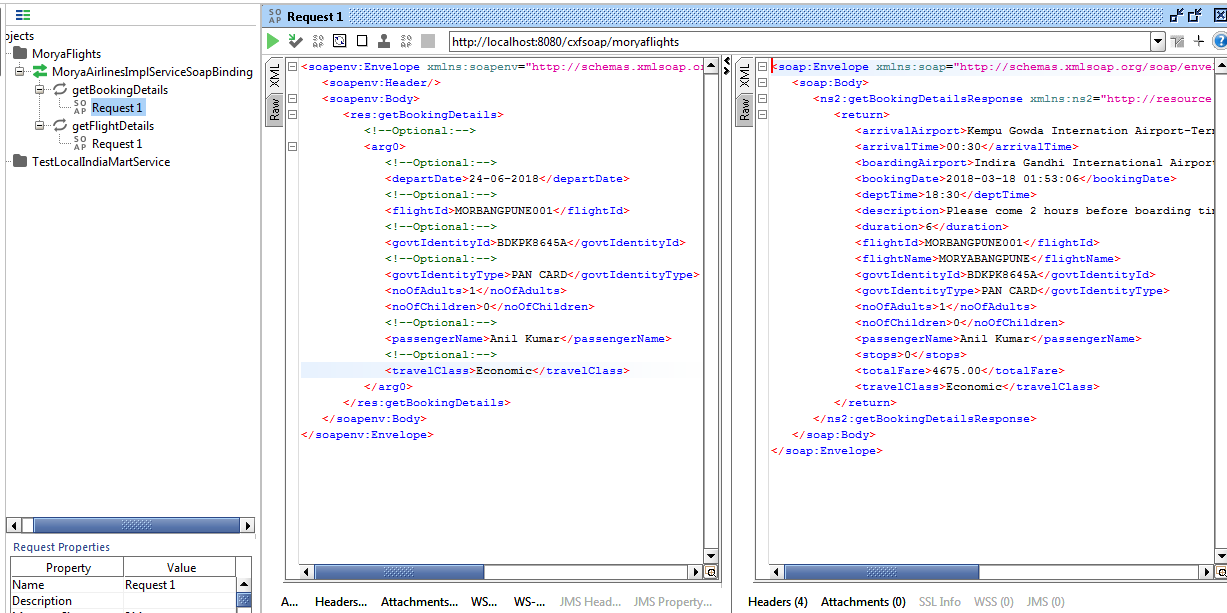
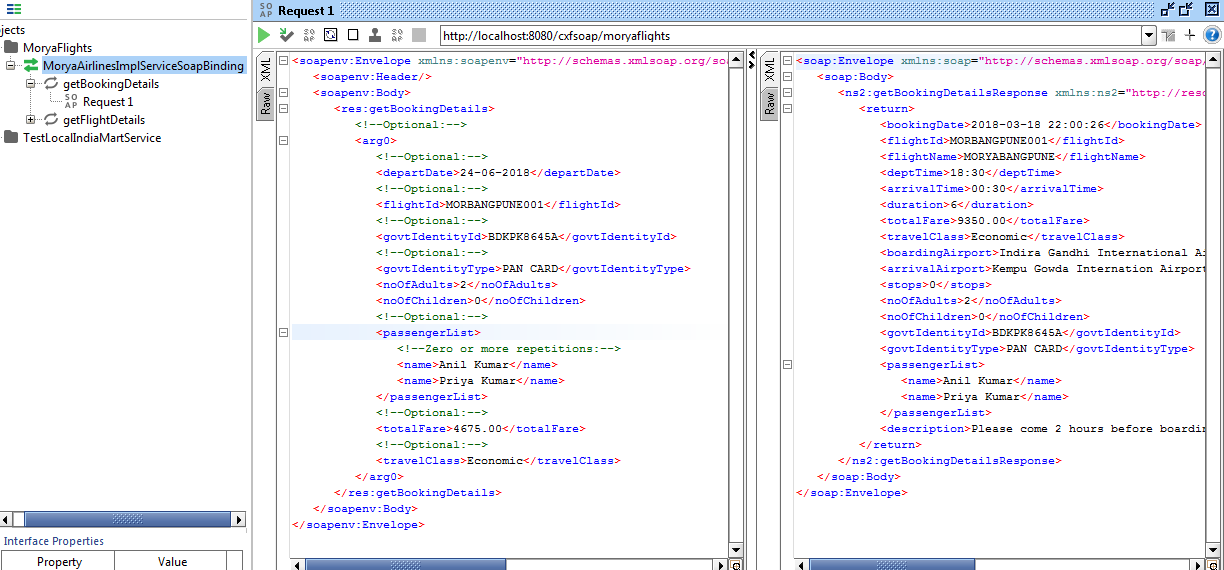
update projects

Changed region(s): [[0.0, 0.0, 1.0, 1.0]]

diff --git a/cxfsoapexample/src/main/java/com/cxfsoap/example/dao/impl/MoryaAirlinesDaoImpl.java b/cxfsoapexample/src/main/java/com/cxfsoap/example/dao/impl/MoryaAirlinesDaoImpl.java
@@ -1,5 +1,6 @@
 package com.cxfsoap.example.dao.impl;
 
+import java.math.BigDecimal;
 import java.util.List;
 
 import org.springframework.beans.factory.annotation.Autowired;
@@ -14,6 +15,7 @@ import com.cxfsoap.example.mappers.SourcesDestinationMapper;
 import com.cxfsoap.example.model.BookingDetailsRequest;
 import com.cxfsoap.example.model.BookingDetailsResponse;
 import com.cxfsoap.example.model.FlightDetailsRequest;
+import com.cxfsoap.example.model.PassengerList;
 import com.cxfsoap.example.model.FlightDetails;
 
 @Repository
@@ -32,21 +34,27 @@ public class MoryaAirlinesDaoImpl  implements MoryaAirlinesDao{
 	@Transactional(rollbackFor=Exception.class)
 	public void updateBookingDetail(BookingDetailsRequest request) {
 		String insertBookingDetails="insert into moryaflights.bookingdetails(bookingdate,flightid,traveldate,boardingairport,arrivalairport," + 
-				"passengername,govtid,govtidtype,travelclass,adults,children,description)" + 
-				"values(sysdate(),?,?,?,?,?,?,?,?,?,?,?)";
-		
+				"passengername,govtid,govtidtype,travelclass,adults,children,description,totalFare)" + 
+				"values(sysdate(),?,?,?,?,?,?,?,?,?,?,?,?)";
+		PassengerList passengers=request.getPassengerList();
+		StringBuilder  passengerNames=new StringBuilder();
+		for(String name:passengers.getName()) {
+			passengerNames.append(name+",");
+		}
+		BigDecimal totalFare= BigDecimal.valueOf(request.getTotalFare().doubleValue() * (request.getNoOfAdults()+request.getNoOfChildren()));
 		Object[] params=new Object[] {
 				request.getFlightId(),
 				request.getDepartDate(),
 				"Indira Gandhi International Airport-Terminal-I",
 				"Kempu Gowda Internation Airport-Terminal-II ",
-				request.getPassengerName(),
+				passengerNames.toString(),
 				request.getGovtIdentityId(),
 				request.getGovtIdentityType(),
 				request.getTravelClass(),
 				request.getNoOfAdults(),
 				request.getNoOfChildren(),
-				"Please come 2 hours before boarding time for security check and boarding procedures,Thank You!"
+				"Please come 2 hours before boarding time for security check and boarding procedures,Thank You!",
+				totalFare
 		};
 		jdbcTemplate.update(insertBookingDetails, params);
 		
@@ -63,12 +71,13 @@ public class MoryaAirlinesDaoImpl  implements MoryaAirlinesDao{
 	
 	public BookingDetailsResponse getBookingDetails(BookingDetailsRequest request) {
 		String fetchBookingDetailSql="select flight.flightid,flight.flightname,flight.depttime,flight.arrivaltime," + 
-				"flight.nostop,flight.stopageairport,flight.totalfare,booking.bookingdate,booking.adults,booking.children,booking.govtid,booking.govtidtype,booking.boardingairport,booking.arrivalairport," + 
+				"flight.nostop,flight.stopageairport,booking.totalFare,booking.bookingdate,booking.adults,booking.children,booking.govtid,booking.govtidtype,booking.boardingairport,booking.arrivalairport," + 
 				"booking.passengername,booking.travelclass,booking.traveldate,booking.description from moryaflights.flightsdetails flight inner join moryaflights.bookingdetails booking " + 
-				"on flight.flightid=booking.flightid where booking.govtid=? and booking.flightid=?";
+				"on flight.flightid=booking.flightid where booking.govtid=? and booking.flightid=? and booking.traveldate=?";
 		Object[] params=new Object[] {
 			request.getGovtIdentityId(),
-			request.getFlightId()
+			request.getFlightId(),
+			request.getDepartDate()
 		};
 		
 		return jdbcTemplate.queryForObject(fetchBookingDetailSql, params, new BookingDetailsRowMapper());
@@ -82,5 +91,25 @@ public class MoryaAirlinesDaoImpl  implements MoryaAirlinesDao{
 	public List<String> fetchAllDestination() {
 		String fetchAllDestinationSql="select distinct(destination) as sourdest from moryaflights.flightsdetails";
 		return jdbcTemplate.query(fetchAllDestinationSql, new SourcesDestinationMapper());
+	}
+	@Override
+	public int validateFlightId(BookingDetailsRequest request) {
+		String validateFlightidSql="select count(*) as count from moryaflights.flightsdetails where flightid=? and totalseats > ?";
+		int totalRequestSeats=(request.getNoOfAdults()+request.getNoOfChildren());
+		Object[] params=new Object[] {
+				request.getFlightId(),
+				totalRequestSeats
+		};
+		return jdbcTemplate.queryForObject(validateFlightidSql,params, Integer.class);
+	}
+	@Override
+	public int checkBookingExists(BookingDetailsRequest request) {
+		String checkBookingExistsSql="select count(*) as count from moryaflights.bookingdetails where flightid=? and traveldate=? and govtid=?";
+		Object[] params=new Object[] {
+				request.getFlightId(),
+				request.getDepartDate(),
+				request.getGovtIdentityId()
+		};
+		return jdbcTemplate.queryForObject(checkBookingExistsSql,params, Integer.class);
 	}
 }

diff --git a/cxfsoapexample/src/main/java/com/cxfsoap/example/model/BookingDetailsResponse.java b/cxfsoapexample/src/main/java/com/cxfsoap/example/model/BookingDetailsResponse.java
@@ -4,8 +4,13 @@ import java.math.BigDecimal;
 import java.util.List;
 
 import javax.xml.bind.annotation.XmlRootElement;
+import javax.xml.bind.annotation.XmlType;
 
 @XmlRootElement
+@XmlType(propOrder= {"fault","bookingDate","flightId","flightName","deptTime",
+		"arrivalTime","duration","totalFare","travelClass","departDate","boardingAirport",
+		"arrivalAirport","stops","stopageAirports","noOfAdults","noOfChildren","govtIdentityId",
+		"govtIdentityType","passengerList","description"})
 public class BookingDetailsResponse {
 
 	private String bookingDate;
@@ -26,7 +31,7 @@ public class BookingDetailsResponse {
 	private String govtIdentityId;
 	private String govtIdentityType;
 	private String description;
-	private String passengerName;
+	private PassengerList passengerList;
 	private ErrorResponse fault;
 	
 	public String getFlightId() {
@@ -131,12 +136,7 @@ public class BookingDetailsResponse {
 	public void setFault(ErrorResponse fault) {
 		this.fault = fault;
 	}
-	public String getPassengerName() {
-		return passengerName;
-	}
-	public void setPassengerName(String passengerName) {
-		this.passengerName = passengerName;
-	}
+	
 	public String getBookingDate() {
 		return bookingDate;
 	}
@@ -149,5 +149,10 @@ public class BookingDetailsResponse {
 	public void setArrivalAirport(String arrivalAirport) {
 		this.arrivalAirport = arrivalAirport;
 	}
-	
+	public PassengerList getPassengerList() {
+		return passengerList;
+	}
+	public void setPassengerList(PassengerList passengerList) {
+		this.passengerList = passengerList;
+	}
 }

diff --git a/cxfsoapexample/src/main/java/com/cxfsoap/example/util/MoryaAirlinesValidator.java b/cxfsoapexample/src/main/java/com/cxfsoap/example/util/MoryaAirlinesValidator.java
@@ -7,6 +7,8 @@ import org.springframework.beans.factory.annotation.Autowired;
 import org.springframework.stereotype.Component;
 
 import com.cxfsoap.example.dao.MoryaAirlinesDao;
+import com.cxfsoap.example.model.BookingDetailsRequest;
+import com.cxfsoap.example.model.BookingDetailsResponse;
 import com.cxfsoap.example.model.DestinationList;
 import com.cxfsoap.example.model.ErrorResponse;
 import com.cxfsoap.example.model.ErrorSeverity;
@@ -58,5 +60,27 @@ public class MoryaAirlinesValidator {
 	      return false;
 	    }
 	    return true;              
+	}
+	public BookingDetailsResponse validateBookingDetails(BookingDetailsRequest request) {
+		BookingDetailsResponse validationResponse=new BookingDetailsResponse();
+		ErrorResponse faultDetails=null;
+		if(validateDate(request.getDepartDate())==Boolean.FALSE) {
+			faultDetails=new ErrorResponse();
+			faultDetails.setErrorCode("INVALID_DATE_FORMAT");
+			faultDetails.setDescription("Invalid date format,valid date format [dd-MM-YYYY]");
+			faultDetails.setErrSeverity(ErrorSeverity.NORMAL);
+			validationResponse.setFault(faultDetails);	
+			return validationResponse;
+		}
+		
+		if(daoService.validateFlightId(request)==0) {
+			faultDetails=new ErrorResponse();
+			faultDetails.setErrorCode("INVALID_FLIGHTID");
+			faultDetails.setDescription("Invalid flightid or seat not available");
+			faultDetails.setErrSeverity(ErrorSeverity.NORMAL);
+			validationResponse.setFault(faultDetails);
+			return validationResponse;
+		}
+		return null;
 	}
 }

diff --git a/cxfsoapexample/src/main/java/com/cxfsoap/example/resource/impl/MoryaAirlinesImpl.java b/cxfsoapexample/src/main/java/com/cxfsoap/example/resource/impl/MoryaAirlinesImpl.java
@@ -2,6 +2,7 @@ package com.cxfsoap.example.resource.impl;
 
 import javax.jws.WebService;
 
+import org.apache.log4j.Logger;
 import org.springframework.beans.factory.annotation.Autowired;
 
 import com.cxfsoap.example.model.BookingDetailsRequest;
@@ -16,12 +17,14 @@ import com.cxfsoap.example.util.MoryaAirlinesValidator;
 targetNamespace="http://cxfsoap.moryaairlines.com/")
 public class MoryaAirlinesImpl implements MoryaAirlines {
 
+	
 	@Autowired
 	private MoryaAirlinesService service;
 	@Autowired
 	private MoryaAirlinesValidator validator;
 	
 	public FlightDetailsResponse getFlightDetails(FlightDetailsRequest request) {	
+		
 		FlightDetailsResponse validateResponse=validator.validateSourceDestination(request);
 		if(validateResponse != null) {
 			return validateResponse;
@@ -30,6 +33,10 @@ public class MoryaAirlinesImpl implements MoryaAirlines {
 	}
 
 	public BookingDetailsResponse getBookingDetails(BookingDetailsRequest request) {
+		BookingDetailsResponse validateResponse=validator.validateBookingDetails(request);
+		if(validateResponse != null) {
+			return validateResponse;
+		}
 		return service.getBookingDetails(request);
 	}
 }

diff --git a/cxfsoapexample/src/main/java/com/cxfsoap/example/model/BookingDetailsRequest.java b/cxfsoapexample/src/main/java/com/cxfsoap/example/model/BookingDetailsRequest.java
@@ -1,5 +1,7 @@
 package com.cxfsoap.example.model;
 
+import java.math.BigDecimal;
+
 import javax.xml.bind.annotation.XmlRootElement;
 
 @XmlRootElement
@@ -12,7 +14,9 @@ public class BookingDetailsRequest {
 	private String travelClass;
 	private String govtIdentityId;
 	private String govtIdentityType;
-	private String passengerName;
+	private PassengerList passengerList;
+	private BigDecimal totalFare;
+	
 	public String getFlightId() {
 		return flightId;
 	}
@@ -55,11 +59,16 @@ public class BookingDetailsRequest {
 	public void setGovtIdentityType(String govtIdentityType) {
 		this.govtIdentityType = govtIdentityType;
 	}
-	public String getPassengerName() {
-		return passengerName;
+	public PassengerList getPassengerList() {
+		return passengerList;
 	}
-	public void setPassengerName(String passengerName) {
-		this.passengerName = passengerName;
+	public void setPassengerList(PassengerList passengerList) {
+		this.passengerList = passengerList;
 	}
-	
+	public BigDecimal getTotalFare() {
+		return totalFare;
+	}
+	public void setTotalFare(BigDecimal totalFare) {
+		this.totalFare = totalFare;
+	}
 }

diff --git a/cxfsoapexample/src/main/java/com/cxfsoap/example/mappers/BookingDetailsRowMapper.java b/cxfsoapexample/src/main/java/com/cxfsoap/example/mappers/BookingDetailsRowMapper.java
@@ -8,6 +8,7 @@ import java.util.List;
 import org.springframework.jdbc.core.RowMapper;
 
 import com.cxfsoap.example.model.BookingDetailsResponse;
+import com.cxfsoap.example.model.PassengerList;
 
 public class BookingDetailsRowMapper implements RowMapper<BookingDetailsResponse> {
 
@@ -29,7 +30,11 @@ public class BookingDetailsRowMapper implements RowMapper<BookingDetailsResponse
 			List<String> stopageAirports=Arrays.asList(stopageAirport.split(","));
 			response.setStopageAirports(stopageAirports);
 		}			
-		response.setPassengerName(rs.getString("passengername"));
+		String passengers=rs.getString("passengername");
+		List<String> names=Arrays.asList(passengers.split(","));
+		PassengerList passengerList=new PassengerList();
+		passengerList.setName(names);
+		response.setPassengerList(passengerList);
 		response.setGovtIdentityId(rs.getString("govtid"));
 		response.setGovtIdentityType(rs.getString("govtidtype"));
 		response.setNoOfAdults(rs.getInt("adults"));

diff --git a/cxfsoapexample/src/main/java/com/cxfsoap/example/service/MoryaAirlinesService.java b/cxfsoapexample/src/main/java/com/cxfsoap/example/service/MoryaAirlinesService.java
@@ -51,7 +51,10 @@ public class MoryaAirlinesService {
 	}
 
 	public BookingDetailsResponse getBookingDetails(BookingDetailsRequest request) {
-		daoService.updateBookingDetail(request);
+		
+		if(daoService.checkBookingExists(request) == 0) {
+			daoService.updateBookingDetail(request);
+		}		
 		BookingDetailsResponse response=daoService.getBookingDetails(request);
 		long arrivalTime;
 		long deptTime;

diff --git a/cxfsoapexample/src/main/java/com/cxfsoap/example/config/MoryaAirlinesConfig.java b/cxfsoapexample/src/main/java/com/cxfsoap/example/config/MoryaAirlinesConfig.java
@@ -17,7 +17,7 @@ import org.springframework.jdbc.datasource.DriverManagerDataSource;
 @Configuration
 @ComponentScan(basePackages="com.cxfsoap.example")
 @ImportResource({"classpath:cxf.xml"})
-@PropertySource(value = { "classpath:application.properties" })
+@PropertySource(value = { "classpath:application.properties"})
 public class MoryaAirlinesConfig {
 
 	@Autowired

diff --git a/cxfsoapexample/src/main/java/com/cxfsoap/example/dao/MoryaAirlinesDao.java b/cxfsoapexample/src/main/java/com/cxfsoap/example/dao/MoryaAirlinesDao.java
@@ -14,4 +14,6 @@ public interface MoryaAirlinesDao {
 	public BookingDetailsResponse getBookingDetails(BookingDetailsRequest request);
 	public List<String> fetchAllSources();
 	public List<String> fetchAllDestination();
+	public int validateFlightId(BookingDetailsRequest request);
+	public int checkBookingExists(BookingDetailsRequest request);
 }

diff --git a/cxfsoapexample/src/main/java/com/cxfsoap/example/model/PassengerList.java b/cxfsoapexample/src/main/java/com/cxfsoap/example/model/PassengerList.java
@@ -1,0 +1,16 @@
+package com.cxfsoap.example.model;
+
+import java.util.List;
+
+public class PassengerList {
+
+	private List<String>name;
+
+	public List<String> getName() {
+		return name;
+	}
+
+	public void setName(List<String> name) {
+		this.name = name;
+	}
+}
